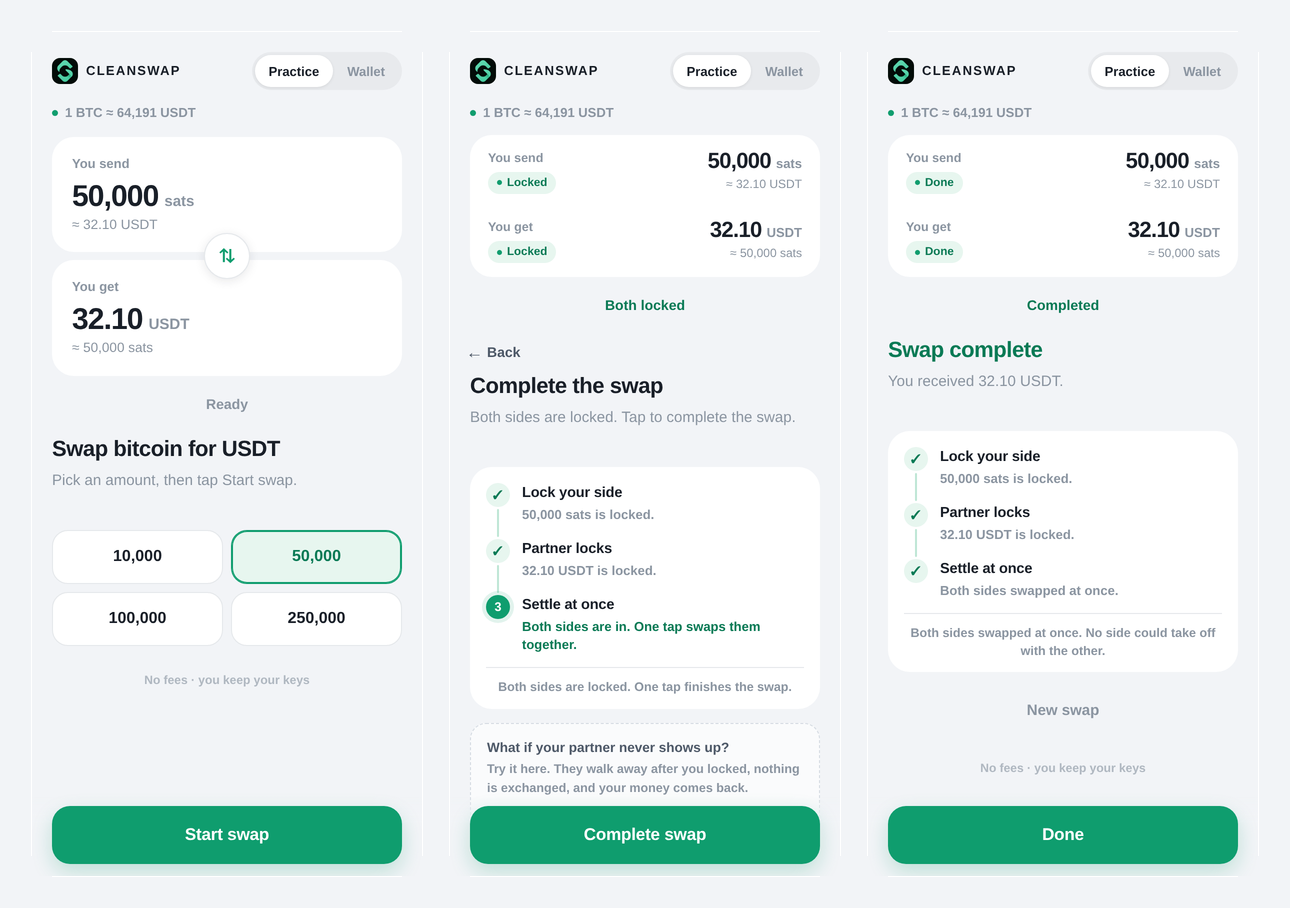
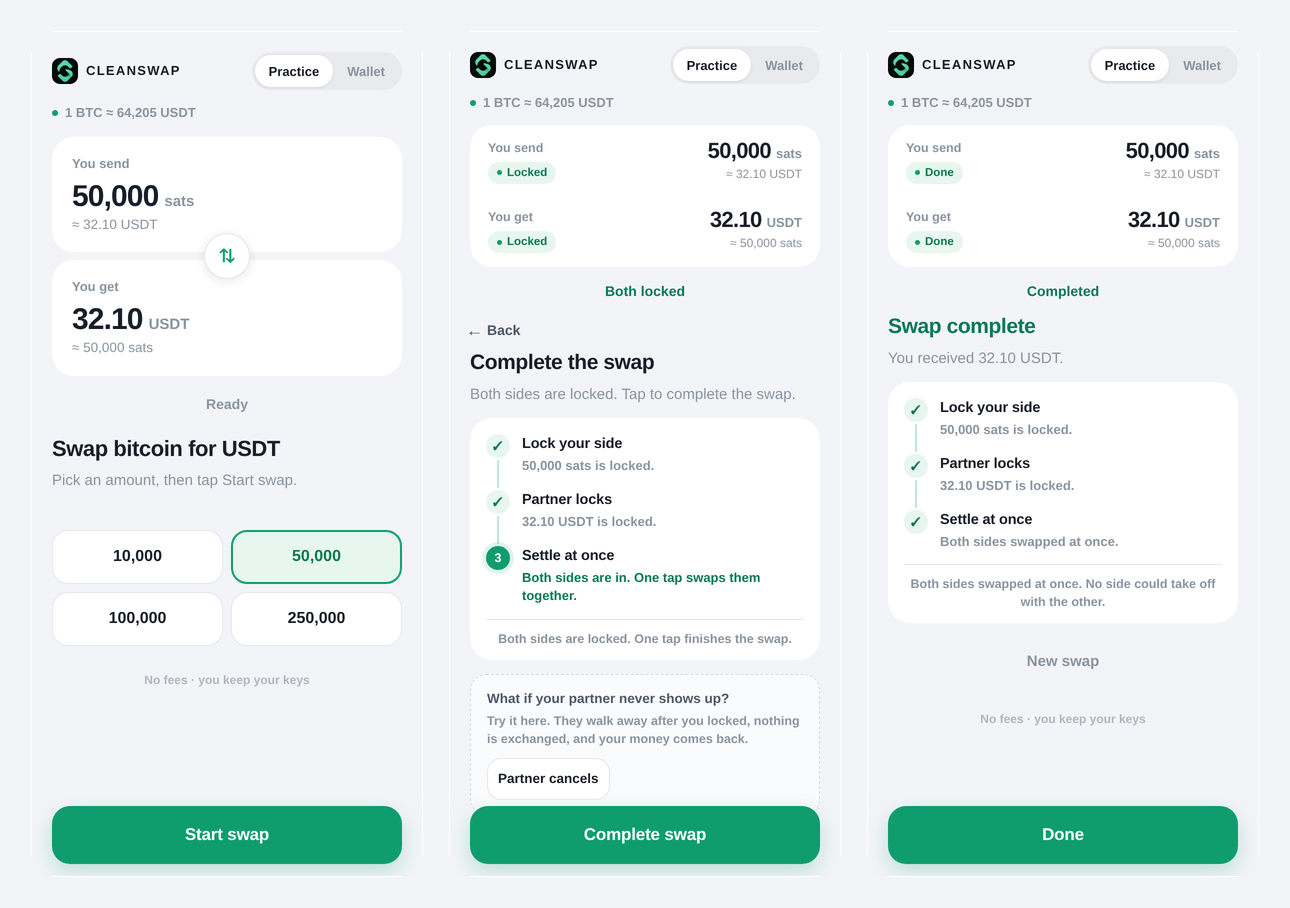
Tighten the running-swap layout so the three wallet steps fit a 360px phone
Idle keeps its big cards; once a swap is open the compact summary and the steps share the screen, and step 3 no longer sits under the action bar at 360x780.

diff --git a/android/app/src/main/assets/index.html b/android/app/src/main/assets/index.html
@@ -90,6 +90,16 @@ body:not([data-phase="idle"]) .amt b{font-size:22px}
 body:not([data-phase="idle"]) .amt span{font-size:13px}
 body:not([data-phase="idle"]) .sub{grid-area:sub;text-align:right;font-size:12px;margin:1px 0 0}
 body:not([data-phase="idle"]) .flip{display:none}
+body:not([data-phase="idle"]) .top{padding-top:14px}
+body:not([data-phase="idle"]) .rate{margin-top:10px}
+body:not([data-phase="idle"]) .act{margin-top:12px}
+body:not([data-phase="idle"]) .state{margin-top:14px}
+body:not([data-phase="idle"]) .q{font-size:21px}
+body:not([data-phase="idle"]) .say{margin-bottom:12px;min-height:0}
+body:not([data-phase="idle"]) .step{margin-bottom:12px}
+body:not([data-phase="idle"]) .step-h{margin-bottom:6px}
+body:not([data-phase="idle"]) .row .pill{height:46px}
+body:not([data-phase="idle"]) .field input{height:50px}
 
 .state{margin:18px 0 0;text-align:center;font-size:14px;font-weight:700;color:var(--dim)}
 .state[data-on="1"]{color:var(--em-ink)}

diff --git a/dist/cleanswap.html b/dist/cleanswap.html
@@ -90,6 +90,16 @@ body:not([data-phase="idle"]) .amt b{font-size:22px}
 body:not([data-phase="idle"]) .amt span{font-size:13px}
 body:not([data-phase="idle"]) .sub{grid-area:sub;text-align:right;font-size:12px;margin:1px 0 0}
 body:not([data-phase="idle"]) .flip{display:none}
+body:not([data-phase="idle"]) .top{padding-top:14px}
+body:not([data-phase="idle"]) .rate{margin-top:10px}
+body:not([data-phase="idle"]) .act{margin-top:12px}
+body:not([data-phase="idle"]) .state{margin-top:14px}
+body:not([data-phase="idle"]) .q{font-size:21px}
+body:not([data-phase="idle"]) .say{margin-bottom:12px;min-height:0}
+body:not([data-phase="idle"]) .step{margin-bottom:12px}
+body:not([data-phase="idle"]) .step-h{margin-bottom:6px}
+body:not([data-phase="idle"]) .row .pill{height:46px}
+body:not([data-phase="idle"]) .field input{height:50px}
 
 .state{margin:18px 0 0;text-align:center;font-size:14px;font-weight:700;color:var(--dim)}
 .state[data-on="1"]{color:var(--em-ink)}

diff --git a/src/app.css b/src/app.css
@@ -75,6 +75,16 @@ body:not([data-phase="idle"]) .amt b{font-size:22px}
 body:not([data-phase="idle"]) .amt span{font-size:13px}
 body:not([data-phase="idle"]) .sub{grid-area:sub;text-align:right;font-size:12px;margin:1px 0 0}
 body:not([data-phase="idle"]) .flip{display:none}
+body:not([data-phase="idle"]) .top{padding-top:14px}
+body:not([data-phase="idle"]) .rate{margin-top:10px}
+body:not([data-phase="idle"]) .act{margin-top:12px}
+body:not([data-phase="idle"]) .state{margin-top:14px}
+body:not([data-phase="idle"]) .q{font-size:21px}
+body:not([data-phase="idle"]) .say{margin-bottom:12px;min-height:0}
+body:not([data-phase="idle"]) .step{margin-bottom:12px}
+body:not([data-phase="idle"]) .step-h{margin-bottom:6px}
+body:not([data-phase="idle"]) .row .pill{height:46px}
+body:not([data-phase="idle"]) .field input{height:50px}
 
 .state{margin:18px 0 0;text-align:center;font-size:14px;font-weight:700;color:var(--dim)}
 .state[data-on="1"]{color:var(--em-ink)}
